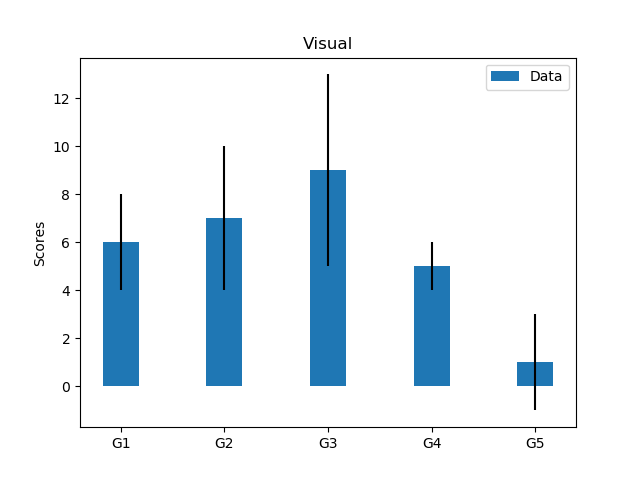
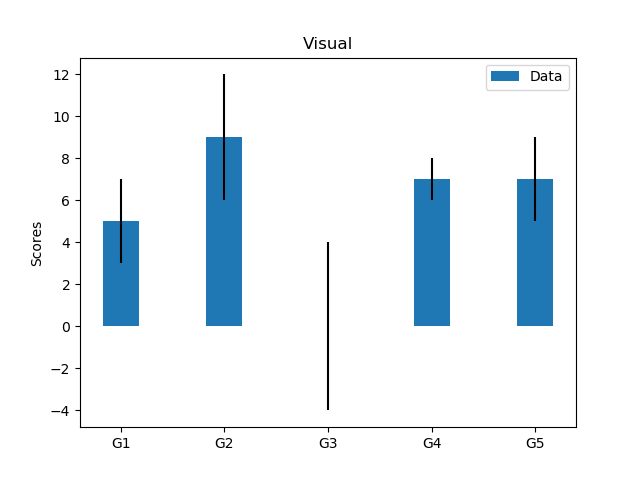
first commit

diff --git a/example.py b/example.py
@@ -2,7 +2,7 @@ import numpy as np
 import matplotlib.pyplot as plt
 
 labels = ['G1', 'G2', 'G3', 'G4', 'G5']
-m_means = [6,7,9,5,1]
+m_means = [5,9,0,7,7]
 m_std = [2, 3, 4, 1, 2]
 width = 0.35       # the width of the bars
 

diff --git a/README.md b/README.md
@@ -1,4 +1,4 @@
-# Plot no 41 
+# Plot no 42 
 
 matplotlib example
 
